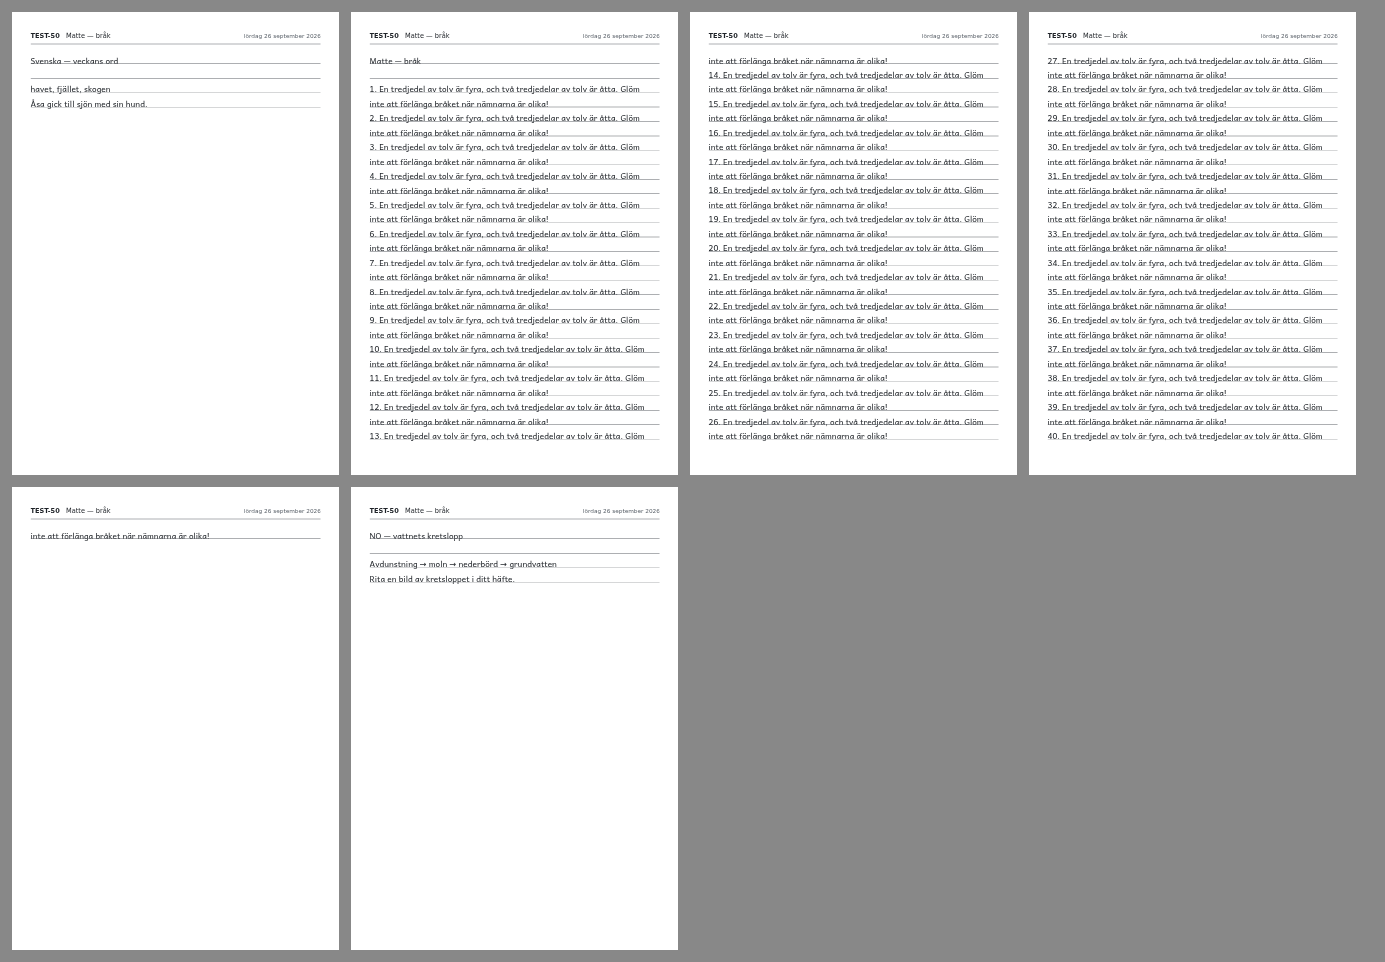
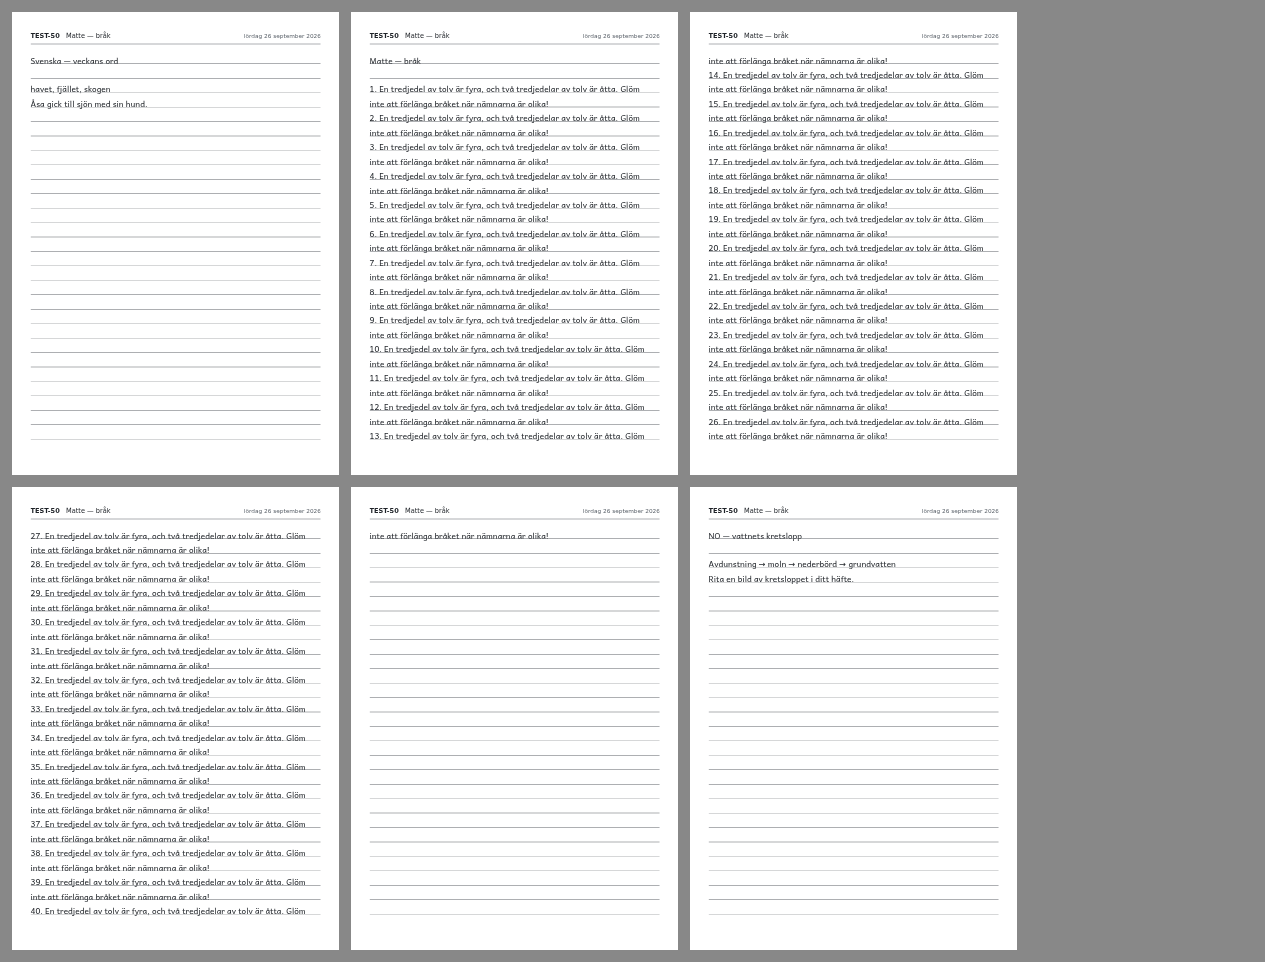
issue #50: linjerat ända ner — fyll sista A4 per sida med tomma linjer

diff --git a/js/modes/skriv/print.js b/js/modes/skriv/print.js
@@ -27,6 +27,8 @@ const PRINT_FONT_PX = 20;
 const LINE_HEIGHT = 1.75;
 const PRINT_LH = Math.round(PRINT_FONT_PX * LINE_HEIGHT); // 35 px ≈ 9,3 mm
 const RULE_W = 1.5;
+/** Textytans höjd på ett A4: 297 mm − 2 × 15 mm (@page skriv i css/modes/skriv.css). */
+const PAGE_CONTENT_PX = ((297 - 2 * 15) * 96) / 25.4;
 
 let current = null; // { root, onAfter, prevTitle }
 
@@ -143,6 +145,17 @@ export function buildSkrivPrint({ pages, className, title }) {
   rows.forEach((row, i) => {
     row.replaceWith(...split[i].map((t) => el("div", "skr-print__line", t)));
   });
+
+  // Linjerat ända ner, som ett riktigt skrivpapper: fyll varje utskriven
+  // sidas sista A4 med tomma linjer. Varje A4 rymmer sidhuvudet (<thead>
+  // upprepas) + ett helt antal rader.
+  for (const section of root.querySelectorAll(".skr-print__page")) {
+    const headH = section.querySelector("thead").getBoundingClientRect().height;
+    const perSheet = Math.max(1, Math.floor((PAGE_CONTENT_PX - headH - 1) / PRINT_LH));
+    const text = section.querySelector(".skr-print__text");
+    const pad = (perSheet - (text.children.length % perSheet)) % perSheet;
+    for (let i = 0; i < pad; i++) text.append(el("div", "skr-print__line skr-print__line--blank"));
+  }
 
   // Dokumenttiteln = PDF:ens förslag på filnamn. Utan elevnamn.
   document.title = `Skrivtavla ${head.className} ${isoDate(new Date())}`.replace(/\s+/g, " ").trim();
